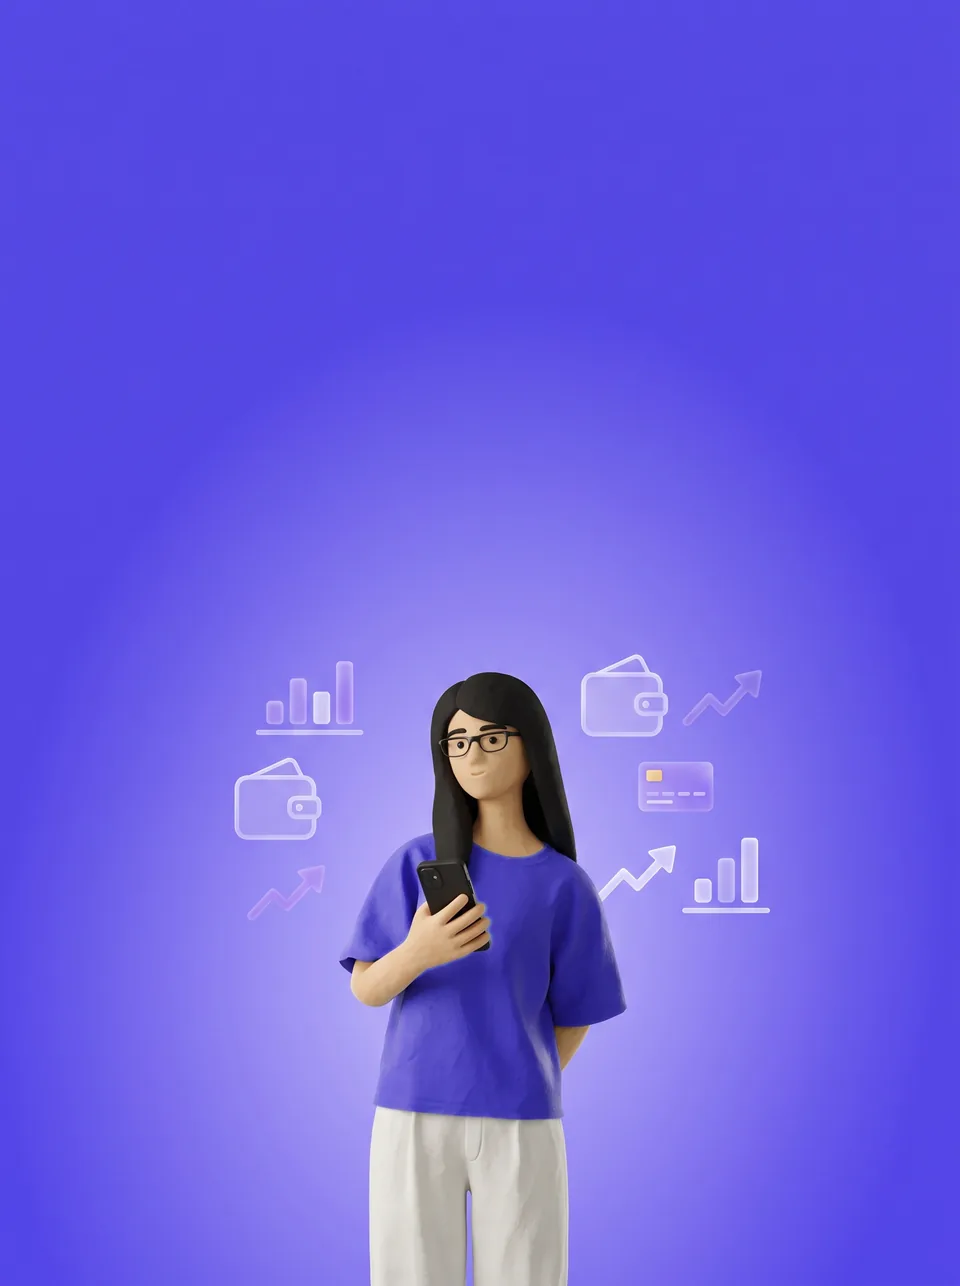
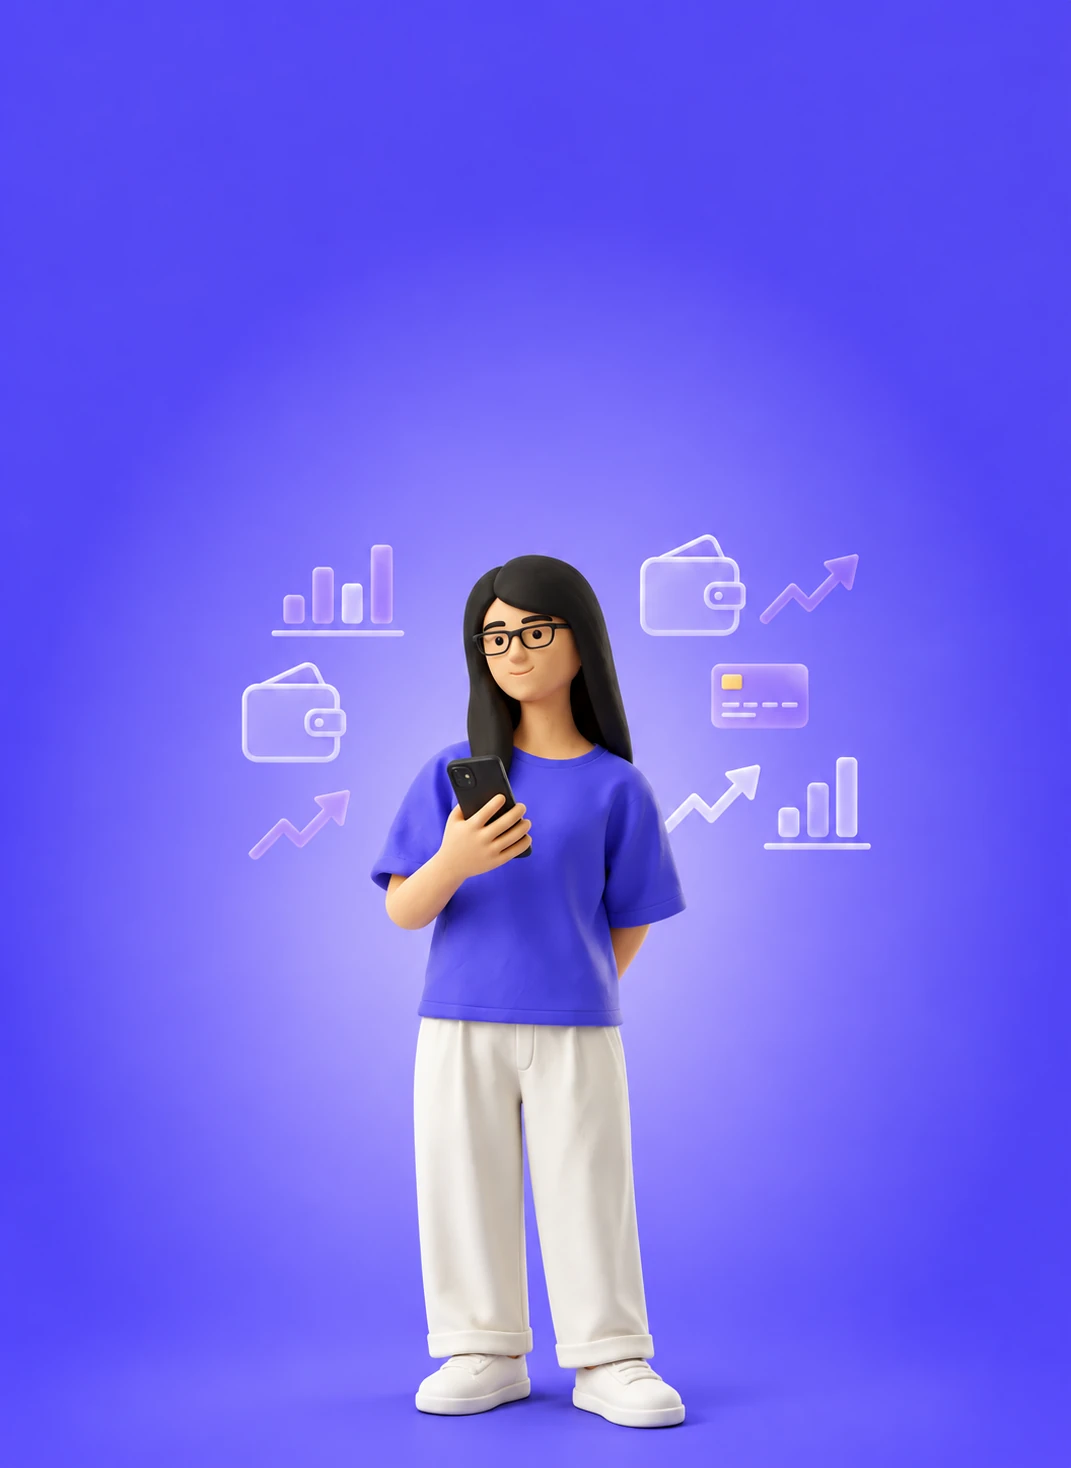
feat: higher-quality auth illustrations
Regenerated full-body illustrations, kept at native width (1071px) with WebP
quality 90; shorter register message so it doesn't overlap the artwork.

Changed region(s): [[0.1562, 0.2177, 0.8125, 1.0], [0.7188, 0.6532, 0.8125, 0.7154]]

diff --git a/src/pages/RegisterPage.vue b/src/pages/RegisterPage.vue
@@ -59,7 +59,7 @@ const banners = [
   {
     image: register2,
     title: "Organize hoje, economize amanhã.",
-    description: "Veja seus gastos com clareza e decida melhor para onde vai o dinheiro.",
+    description: "Veja seus gastos com clareza e decida melhor.",
   },
 ];
 const banner = banners[Math.floor(Math.random() * banners.length)];
